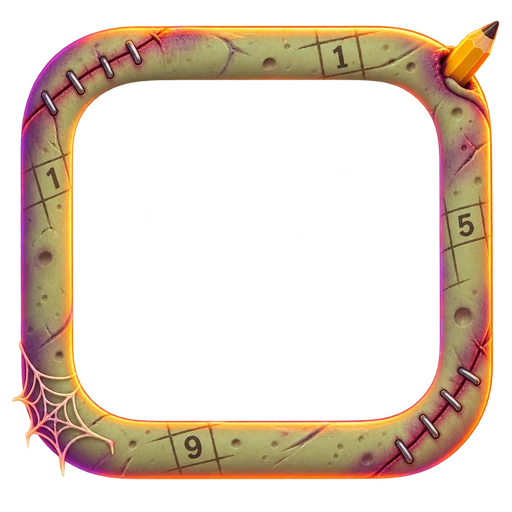
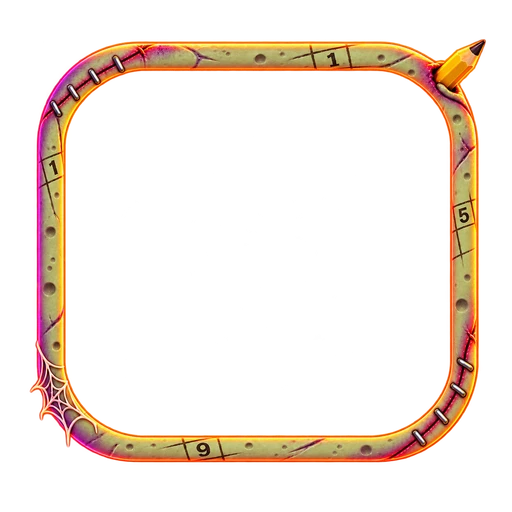
좀비 테두리를 약 절반 두께로 교체, 겹침 비율 재계산

Changed region(s): [[0.0312, 0.0312, 1.0, 0.9375]]

diff --git a/src/index.css b/src/index.css
@@ -2630,7 +2630,8 @@ html.theme-gameboy .theme-toggle-btn {
 }
 
 /* 그림 테두리(좀비) — 투명 PNG 를 아바타 위에 겹친다.
-   그림의 링 바깥 가장자리가 PNG 폭의 약 92.5% 라서, 겹치는 그림은 상자(테두리 포함)보다 약 8% 크게 둔다.
+   그림의 링 바깥 가장자리가 PNG 폭의 약 86% 라서, 겹치는 그림은 상자(테두리 포함)보다 약 16% 크게 둔다.
+   그림을 바꾸면 이 비율(8.05%·1.161)을 다시 재야 한다.
    연필·거미줄처럼 링 밖으로 나온 장식이 보이도록 overflow 를 푸는 대신 아바타 그림 모서리를 직접 둥글린다. */
 .frame-image {
   position: relative;
@@ -2642,7 +2643,7 @@ html.theme-gameboy .theme-toggle-btn {
 .frame-image::after {
   content: '';
   position: absolute;
-  inset: calc(-1 * (4.05% + var(--frame-bw, 3px) * 1.081));
+  inset: calc(-1 * (8.05% + var(--frame-bw, 3px) * 1.161));
   background: var(--frame-img) center / 100% 100% no-repeat;
   pointer-events: none;
 }
